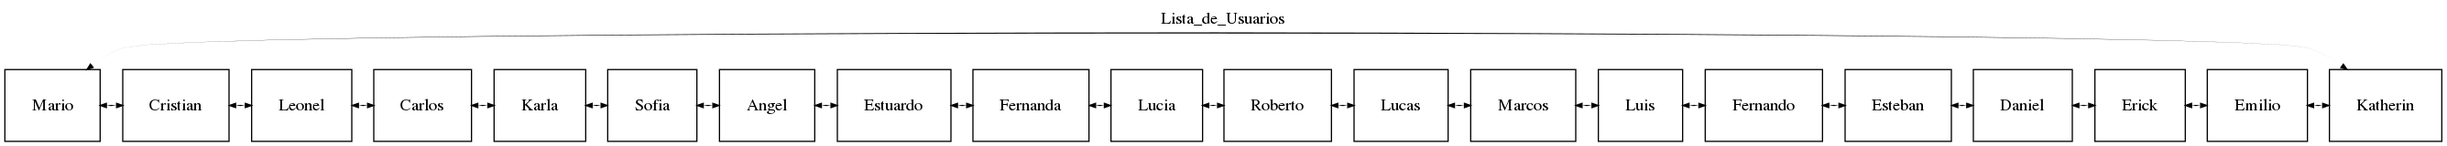
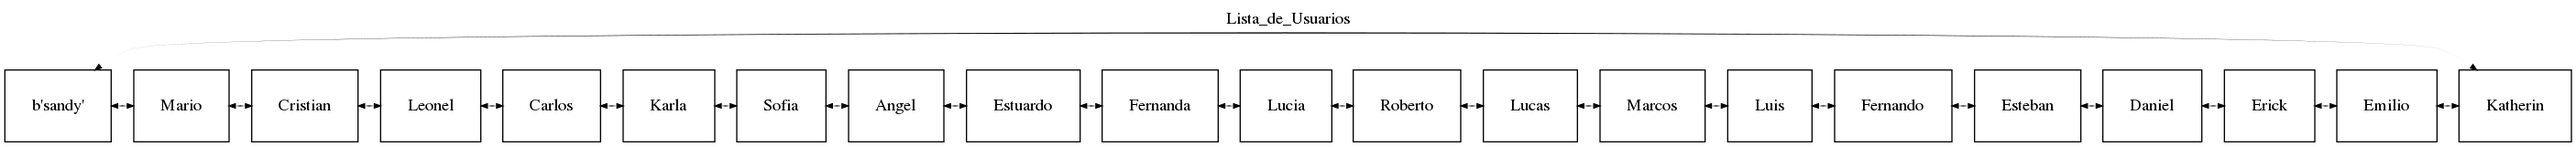
Practica#1

diff --git a/Curses/Options.py b/Curses/Options.py
@@ -159,27 +159,40 @@ def five_bulkloading(stdscr):# <<<<<-------------------------METHOD CALLED five_
     stdscr=curses.initscr()
     stdscr.border(0)
     curses.curs_set(0)
-     
-    
-    with open('Curses/Users.csv') as archivo:
+    '''stdscr.clear()
+    curses.curs_set(0)
+    curses.echo()
+    stdscr.keypad(True)
+    stdscr.addstr(2,3,"Ingrese el Nombre del Archivo:")
+    stdscr.addstr(2,35," "*15,curses.A_UNDERLINE)
+    nombreArchivo=stdscr.getstr(2,35)
+    arch="Curses/ {}".format(str(nombreArchivo))
+    stdscr.addstr(2,3,arch)
+    time.sleep(2)'''
 
-        leer = csv.reader(archivo, delimiter=',')
-        lineas = 0
-        escribir_otro=""
+     
+    try:
+        with open('Curses/Users.csv') as archivo:
+
+            leer = csv.reader(archivo, delimiter=',')
+            lineas = 0
+            escribir_otro=""
                 #lcd=Lista_Circular_doble.Circular_Doubly_Linked_List()
     
-        for fila in leer:
-            if lineas == 0:
+            for fila in leer:
+                if lineas == 0:
          
-               lineas += 1
+                    lineas += 1
 
-            else:
+                else:
 
-            	lcd.add(Lista_Circular_doble.NodeLCD(fila[0]))
-            	#lcd.add(nod(fila[0]))
-            	lineas+= 1
+            	    lcd.add(Lista_Circular_doble.NodeLCD(fila[0]))
+            	    #lcd.add(nod(fila[0]))
+            	    lineas+= 1
     
-	    
+    except:
+        print("no entro en leer")
+        pass
 	    #stdscr.refresh()           
         #stdscr.addstr(15,15,"--->se ingresaron usuarios a la aplicacion...")   
     

diff --git a/Curses/Snake.py b/Curses/Snake.py
@@ -12,7 +12,7 @@ from lista_doble import Doubly_Linked_List,NodeLD
 from Pila import Stack,NodeStack
 from Cola import NodeQueue,Queue
 from curses import KEY_RIGHT, KEY_LEFT, KEY_UP, KEY_DOWN
-
+import Lista_Circular_doble
 ld=Doubly_Linked_List()
 fd=Food.Food_Snake()
 pil=Stack()
@@ -40,21 +40,24 @@ def Boody(stdscr):
 		seguir=0
 		if Options.lcd.get_user() is "n":
 			stdscr=curses.initscr()
-			curses.curs_set(1)
+			stdscr.border(0)
+			curses.curs_set(0)
 			curses.echo()
 			stdscr.keypad(True)
 			#print("no hay usuario seleccionado")
 			stdscr.addstr(2,3,"NO se ha selecionado un Usuario!!!!")
 			stdscr.addstr(5,3,"Ingrese un Nombre:")
+			
 			stdscr.addstr(5,22," "*15,curses.A_UNDERLINE)
 			usuario_nuevo=stdscr.getstr(5,22)
 			curses.noecho()
-			curses.curs_set(0)
-			#stdscr.keypad(False)
+			#curses.curs_set(0)
+			#stdscr.keypad(False)#para probar
 			
 			if usuario_nuevo.isalpha() is True:
 				stdscr.addstr(7,3,"Nombre Correcto :)")
 				stdscr.addstr(9,3,usuario_nuevo)
+				Options.lcd.add(Lista_Circular_doble.NodeLCD(str(usuario_nuevo)))
 			#time.sleep(1)
 				seguir=1
 				stdscr.getch()
@@ -65,7 +68,7 @@ def Boody(stdscr):
 				stdscr.clear()
 			#stdscr.addstr(6,6,"Ingrese su Nombre:")
 
-
+			time.sleep(3)
 
 
 		if seguir==1 or Options.lcd.get_user() is not "n":
@@ -73,6 +76,7 @@ def Boody(stdscr):
 			ld.remove_all()
 			pil.pop_all()
 			#col.dequeue_all()
+			stdscr.keypad(True)
 			stdscr=curses.initscr()
 			curses.curs_set(0)
 			stdscr.border(0)
